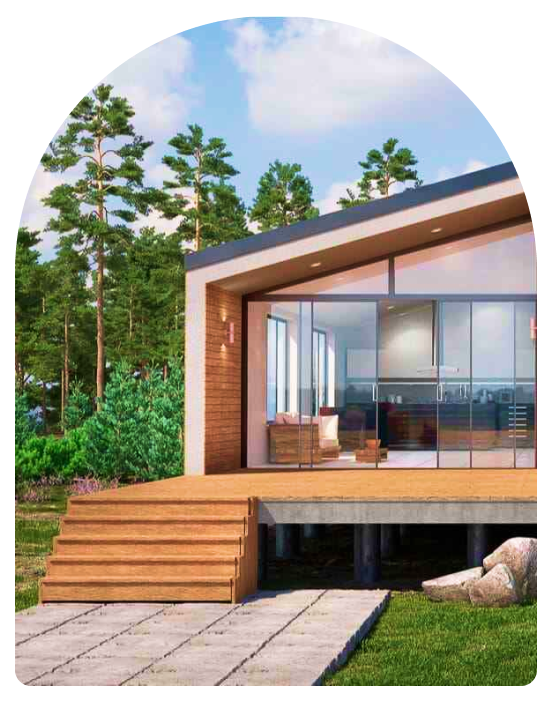
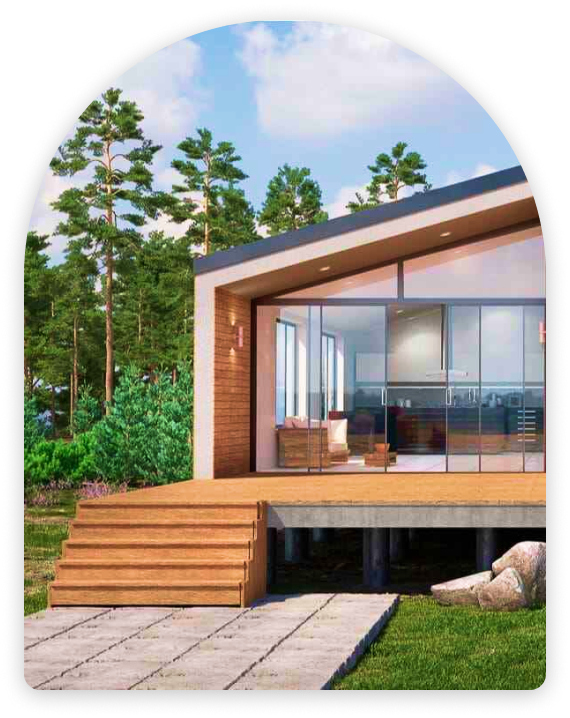
animation for header image

diff --git a/src/components/Header/Header.module.scss b/src/components/Header/Header.module.scss
@@ -191,9 +191,13 @@
   img {
     width: 520px;
     height: 670px;
+    animation: slide 10000ms ease-in-out infinite;
 
-    // position: relative;
-    // top: 100px;
+    // animation-name: slide;
+    // animation-duration: 10s;
+    // animation-iteration-count: infinite;
+    // animation-timing-function: linear;
+    // animation-fill-mode: both;
 
     @media (max-width: 425px) {
       width: 320px;
@@ -205,5 +209,29 @@
     & {
       margin-top: $margin32;
     }
+  }
+}
+
+@keyframes slide {
+  0% {
+    opacity: 0;
+    transform: translateX(-5%);
+  }
+
+  15% {
+    opacity: 0;
+    transform: translateX(0%);
+  }
+  25% {
+    opacity: 1;
+    transform: translateX(0%);
+  }
+  85% {
+    opacity: 1;
+    transform: translateX(0%);
+  }
+  100% {
+    opacity: 0;
+    transform: translateX(20%);
   }
 }

diff --git a/src/components/Header/index.jsx b/src/components/Header/index.jsx
@@ -8,7 +8,7 @@ import logoTelephone from '../../assets/icons/Telephone.svg'
 import nineIcon from '../../assets/Numbers/nine-plus.png'
 import twoIcon from '../../assets/Numbers/two-plus.png'
 import twentyIcon from '../../assets/Numbers/twenty-plus.png'
-import imgBkg from '../../assets/Header/header-img.png'
+import imgBkg from '../../assets/Header/header-img-1.png'
 import imgBkg2 from '../../assets/Header/header-img-2.png'
 import Logo from '../../ui/Logo'
 import { scrollToForm } from '../../utils/scrollToForm'
@@ -27,7 +27,7 @@ const Header = () => {
   useEffect(() => {
     const interval = setInterval(() => {
       setIndex((index + 1) % images.length)
-    }, 5000)
+    }, 10000)
     return () => clearInterval(interval)
   }, [index])
 
